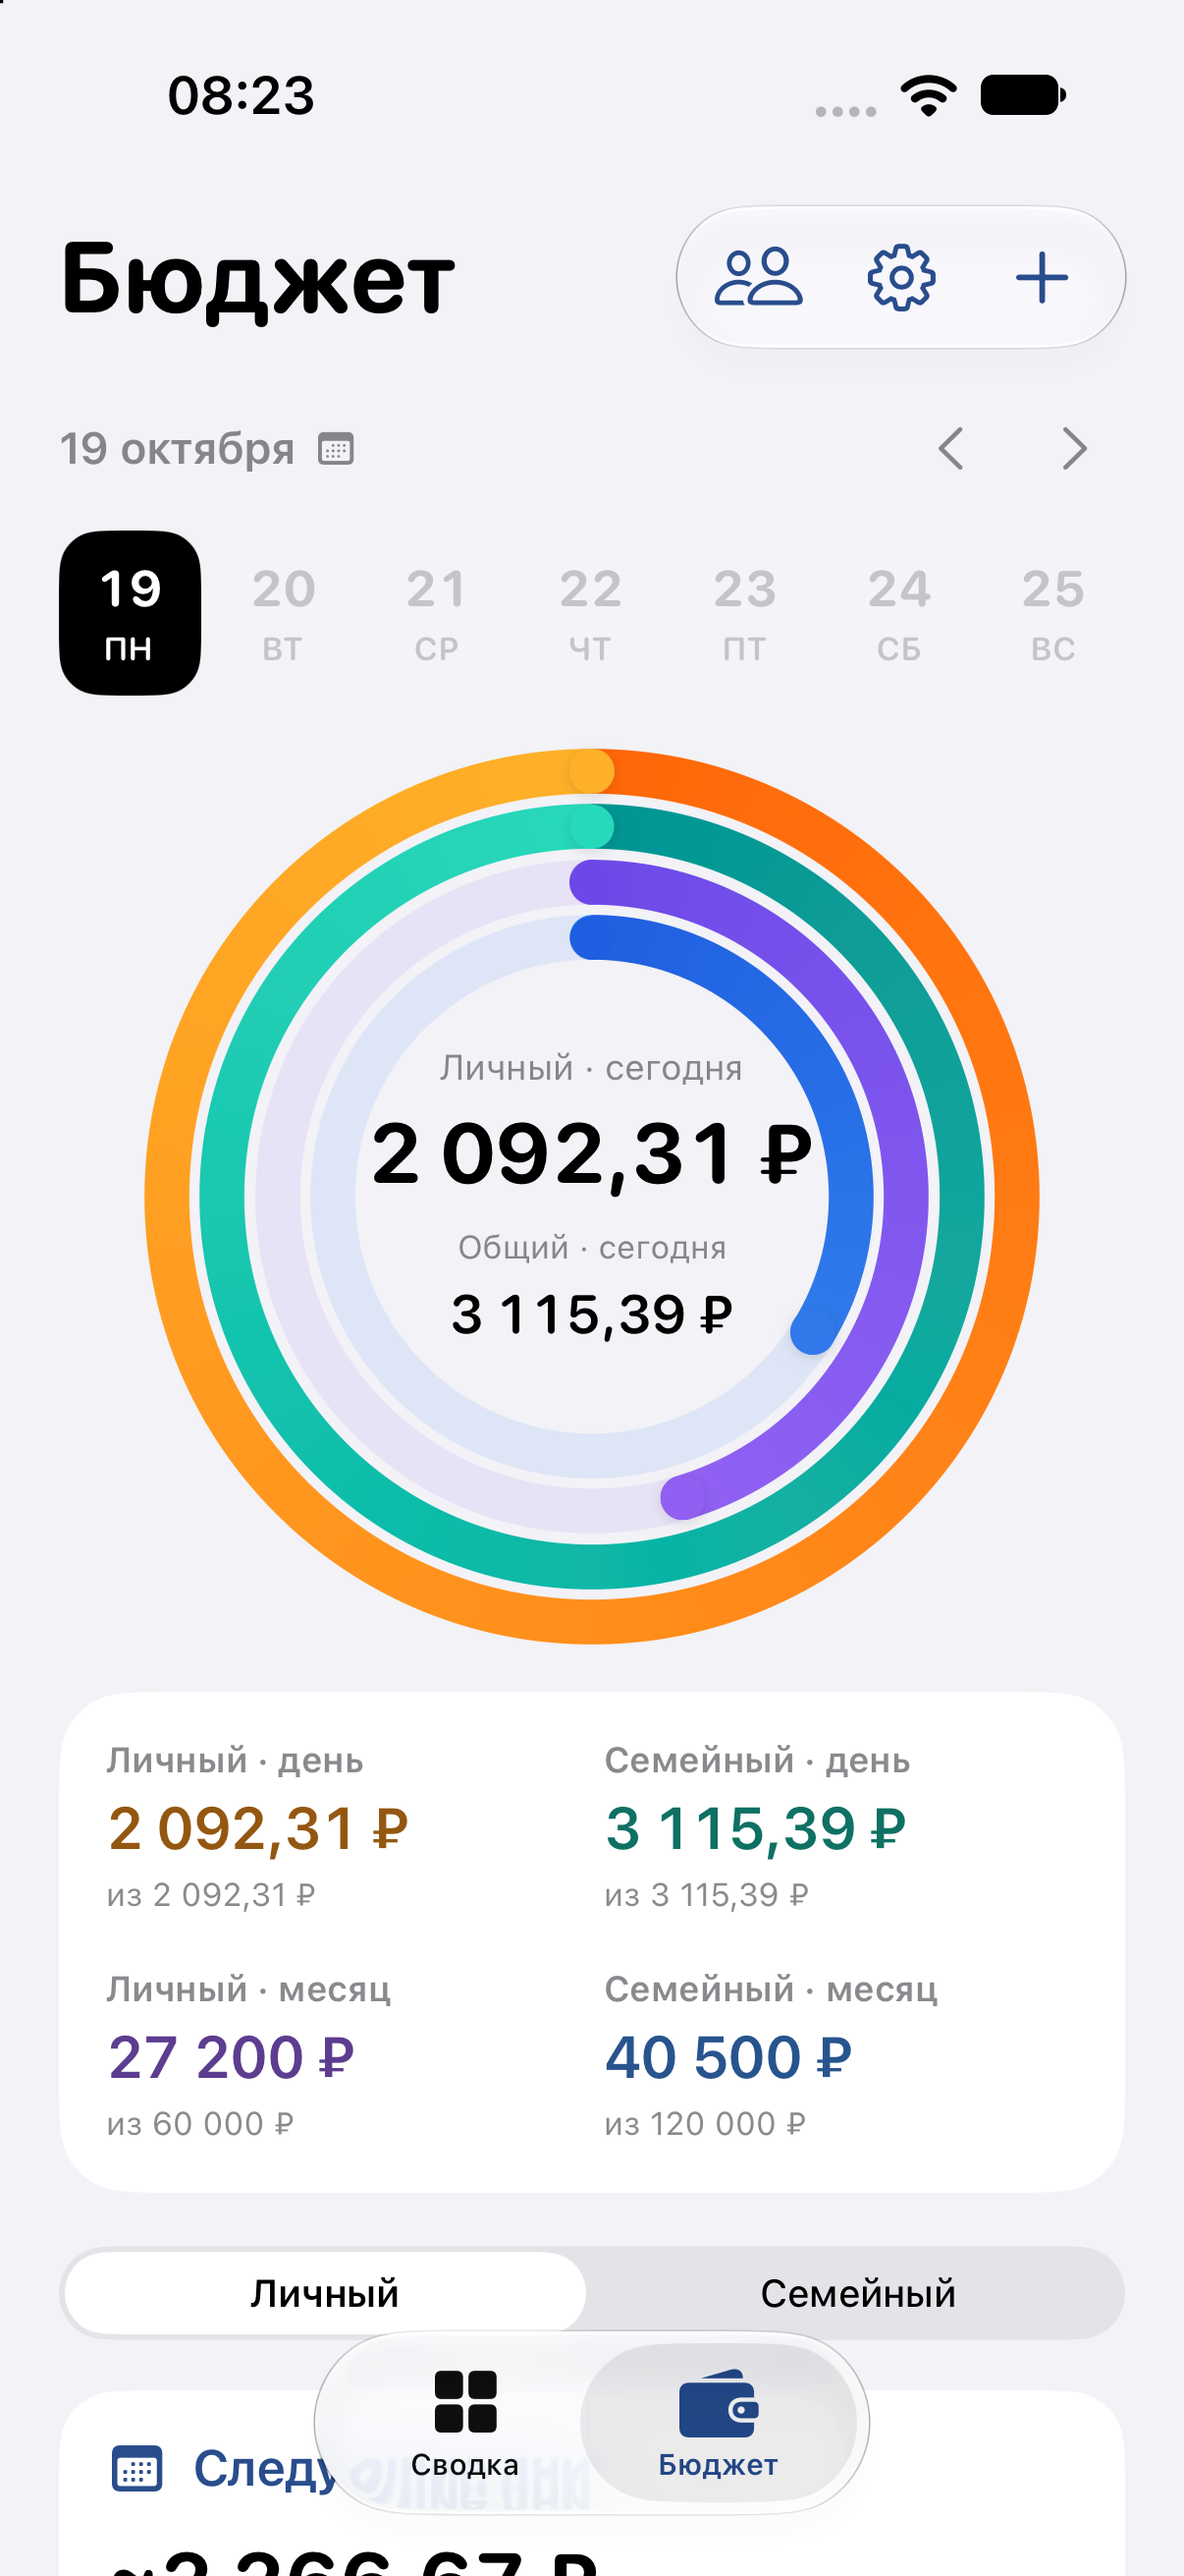
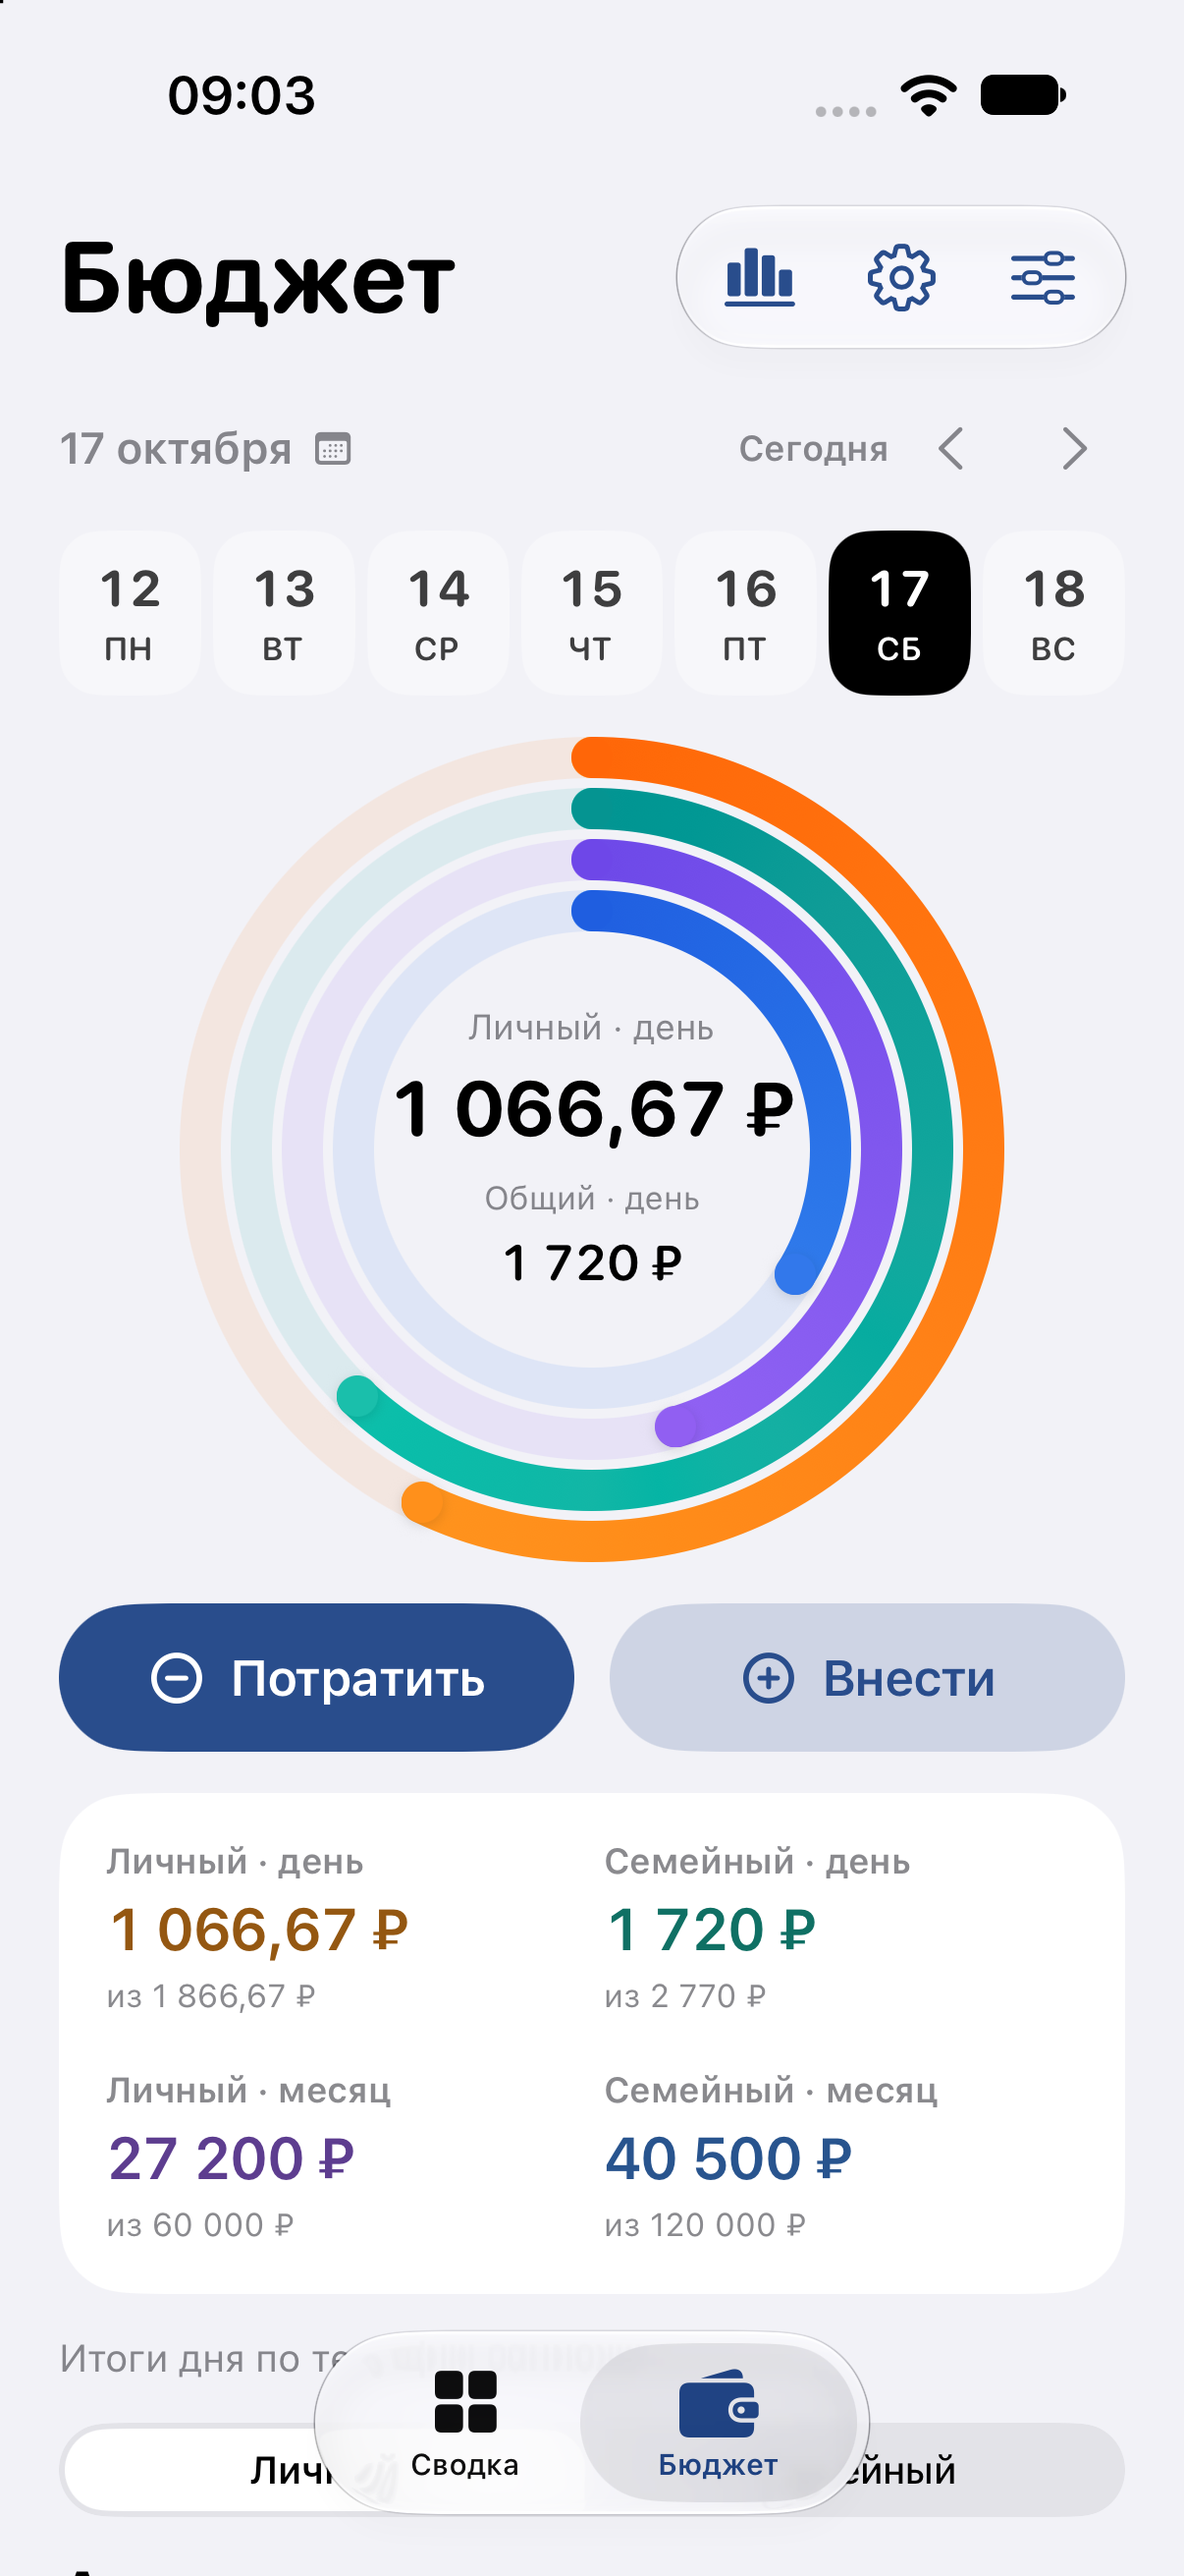
Verify analytics and overspending UI, improve accessible layouts

diff --git a/App/Sources/FolkiRootView.swift b/App/Sources/FolkiRootView.swift
@@ -28,6 +28,7 @@ private struct FolkiSummaryView: View {
     @Binding var selectedDay: Date?
     let openBudget: () -> Void
     @State private var showingFamily = false
+    @Environment(\.dynamicTypeSize) private var dynamicTypeSize
 
     var body: some View {
         let date = selectedDay ?? family.referenceDate
@@ -62,26 +63,33 @@ private struct FolkiSummaryView: View {
     }
 
     private func budgetFavorite(personal: DailyBudgetSnapshot?, family: DailyBudgetSnapshot?) -> some View {
-        VStack(alignment: .leading, spacing: 16) {
+        let layout = dynamicTypeSize.isAccessibilitySize
+            ? AnyLayout(VStackLayout(alignment: .leading, spacing: 18))
+            : AnyLayout(HStackLayout(spacing: 18))
+        let familyLayout = dynamicTypeSize.isAccessibilitySize
+            ? AnyLayout(VStackLayout(alignment: .leading, spacing: 4))
+            : AnyLayout(HStackLayout(spacing: 4))
+        return VStack(alignment: .leading, spacing: 16) {
             HStack {
                 Label("Бюджет", systemImage: "wallet.bifold.fill").foregroundStyle(Color.folkiAccent)
                 Spacer()
                 Image(systemName: "chevron.right").font(.caption.bold()).foregroundStyle(.tertiary)
             }.font(.headline)
-            HStack(spacing: 18) {
+            layout {
                 VStack(alignment: .leading, spacing: 6) {
                     Text(selectedDay == nil ? "Личный · сегодня" : "Личный · выбранный день").font(.subheadline).foregroundStyle(.secondary)
                     Text(personal.map { MoneyText.string($0.todayRemaining) } ?? "—")
                         .font(.system(.largeTitle, design: .rounded, weight: .bold))
                         .foregroundStyle(personal.map { $0.todayRemaining.minorUnits < 0 } == true ? Color.red : .primary)
                         .monospacedDigit().lineLimit(1).minimumScaleFactor(0.6)
-                    HStack(spacing: 4) {
+                    familyLayout {
                         Text("Общий").foregroundStyle(.secondary)
                         Text(family.map { MoneyText.string($0.todayRemaining) } ?? "—").fontWeight(.semibold)
                             .foregroundStyle(family.map { $0.todayRemaining.minorUnits < 0 } == true ? Color.red : .primary)
+                            .monospacedDigit().lineLimit(1).minimumScaleFactor(0.6)
                     }.font(.subheadline)
                 }
-                Spacer(minLength: 0)
+                if !dynamicTypeSize.isAccessibilitySize { Spacer(minLength: 0) }
                 FinancialRings(personal: personal, family: family, compact: true)
                     .frame(width: 94, height: 94).accessibilityHidden(true)
             }

diff --git a/App/Sources/BudgetRootView.swift b/App/Sources/BudgetRootView.swift
@@ -134,7 +134,10 @@ struct BudgetRootView: View {
     }
 
     private var entryActions: some View {
-        HStack(spacing: 12) {
+        let layout = dynamicTypeSize.isAccessibilitySize
+            ? AnyLayout(VStackLayout(spacing: 12))
+            : AnyLayout(HStackLayout(spacing: 12))
+        return layout {
             Menu {
                 Button("Личные деньги", systemImage: "person") { openEntry(.personal, kind: .expense) }
                 Button("Семейные деньги", systemImage: "person.2") { openEntry(.family, kind: .expense) }
@@ -148,7 +151,7 @@ struct BudgetRootView: View {
             } label: {
                 Label("Внести", systemImage: "plus.circle").frame(maxWidth: .infinity)
             }.buttonStyle(.bordered)
-        }.controlSize(.large).font(.headline)
+        }.controlSize(.large).font(.headline).lineLimit(1).minimumScaleFactor(0.75)
     }
 
     private func openEntry(_ scope: BudgetScope, kind: TransactionKind) {

diff --git a/App/Sources/SpendingLimitsView.swift b/App/Sources/SpendingLimitsView.swift
@@ -52,7 +52,7 @@ struct SpendingLimitsView: View {
                 }
                 if let errorMessage { Text(errorMessage).foregroundStyle(.red) }
             }
-            .navigationTitle("Лимиты расходов").navigationBarTitleDisplayMode(.inline)
+            .navigationTitle("Лимиты").navigationBarTitleDisplayMode(.inline)
             .toolbar {
                 ToolbarItem(placement: .cancellationAction) { Button("Отмена") { dismiss() } }
                 ToolbarItem(placement: .confirmationAction) {

diff --git a/docs/PROGRESS.md b/docs/PROGRESS.md
@@ -122,6 +122,6 @@ Decimal-конвертация проверяет переполнение и о
 
 `BudgetAnalytics` агрегирует внесённые записи за день/неделю/месяц, исключает будущее и удалённые операции, учитывает понедельник, границы месяцев и DST. Расходы/возвраты/поступления/переводы в резервы разделены; переводы в цели не создают расход. UI использует Swift Charts и категории в выбранной валюте. Месячные лимиты сохраняются отдельно по scope, без изменения денег и записей; ожидаемое старое значение проверяется против устаревшей формы.
 
-Все 53 теста (36 расчётов и 17 хранения) и Debug/Release/Demo/Cloud прошли. Проверены изоляция и сохранение лимитов, отсутствие новых денег/операций, конфликт, неверный scope, аналитические границы и отрицательный дневной остаток. В симуляторе до блокировки Mac проверены сводка с календарём/семьёй, переход с 17 октября и новые кнопки бюджета. После установки окончательной сборки снимок через simctl подтвердил центрирование колец, контраст кнопки «Потратить» и размещение всех четырёх числовых показателей над плавающим меню на iPhone 18 Pro при обычном размере текста. Обновлён `screenshots/budget-calendar-dark.png`. Инструмент управления Mac продолжает сообщать о блокировке; интерактивная приёмка диаграмм, форм лимитов и красного перерасхода остаётся незавершённой. Остальные снимки помечены как предыдущая проверенная сборка.
+Все 53 теста (36 расчётов и 17 хранения) и Debug/Release/Demo/Cloud прошли. Проверены изоляция и сохранение лимитов, отсутствие новых денег/операций, конфликт, неверный scope, аналитические границы и отрицательный дневной остаток. В симуляторе до блокировки Mac проверены сводка с календарём/семьёй, переход с 17 октября и новые кнопки бюджета. После разблокировки Mac проверены центрирование колец, контраст кнопок и размещение всех четырёх числовых показателей над плавающим меню на iPhone 18 Pro при обычном размере текста. Проверены переход к аналитике, переключение дня/недели/месяца, категории, месячный семейный расход 1 050 ₽ и отдельный личный перевод 2 000 ₽ в накопления. Личный лимит изменён 60 000 → 55 000 ₽, повторно открыт и восстановлен; доступные деньги и семейный лимит не изменились. «Внести» открывает поступление с включённым назначением в свободные деньги; форма закрыта без создания дохода. Тестовый личный расход 3 000 ₽ показал −907,69 ₽ красным при исходном ориентире 2 092,31 ₽; после мягкого удаления записи исходные остатки восстановились. В сводке проверены приглашение в семью и общая дата 17 октября при переходе в бюджет. Проверена светлая тема с синими акцентами. Обновлены снимки бюджета и сводки; добавлены аналитика и перерасход. При крупном тексте найдена разбивка подписей быстрых действий; для accessibility-размеров кнопки размещены вертикально, а суммы сводки получают отдельные строки. Заголовок формы сокращён до «Лимиты», чтобы не обрезаться между кнопками.
 
 Рекомендации и план интеграции обязательных платежей, прогноза до дохода, целей, недельной сверки и корзины — [BUDGET-PRACTICES.md](BUDGET-PRACTICES.md).

diff --git a/design/HEALTH-NATIVE.md b/design/HEALTH-NATIVE.md
@@ -61,3 +61,5 @@
 - `App/Sources/BudgetHistoryView.swift`: история, правка, удаление и явное восстановление.
 
 `Prototype/` и `design/interactive/` сохраняют прежнюю итерацию макета; они не являются текущей нативной сборкой. Постоянное хранение и готовность iCloud описаны в [PROGRESS.md](../docs/PROGRESS.md) и [ICLOUD-GATE.md](../docs/ICLOUD-GATE.md).
+
+При accessibility-размерах текста быстрые действия под кольцами стоят вертикально; числовые показатели и итоги аналитики перестраиваются в одну колонку.
